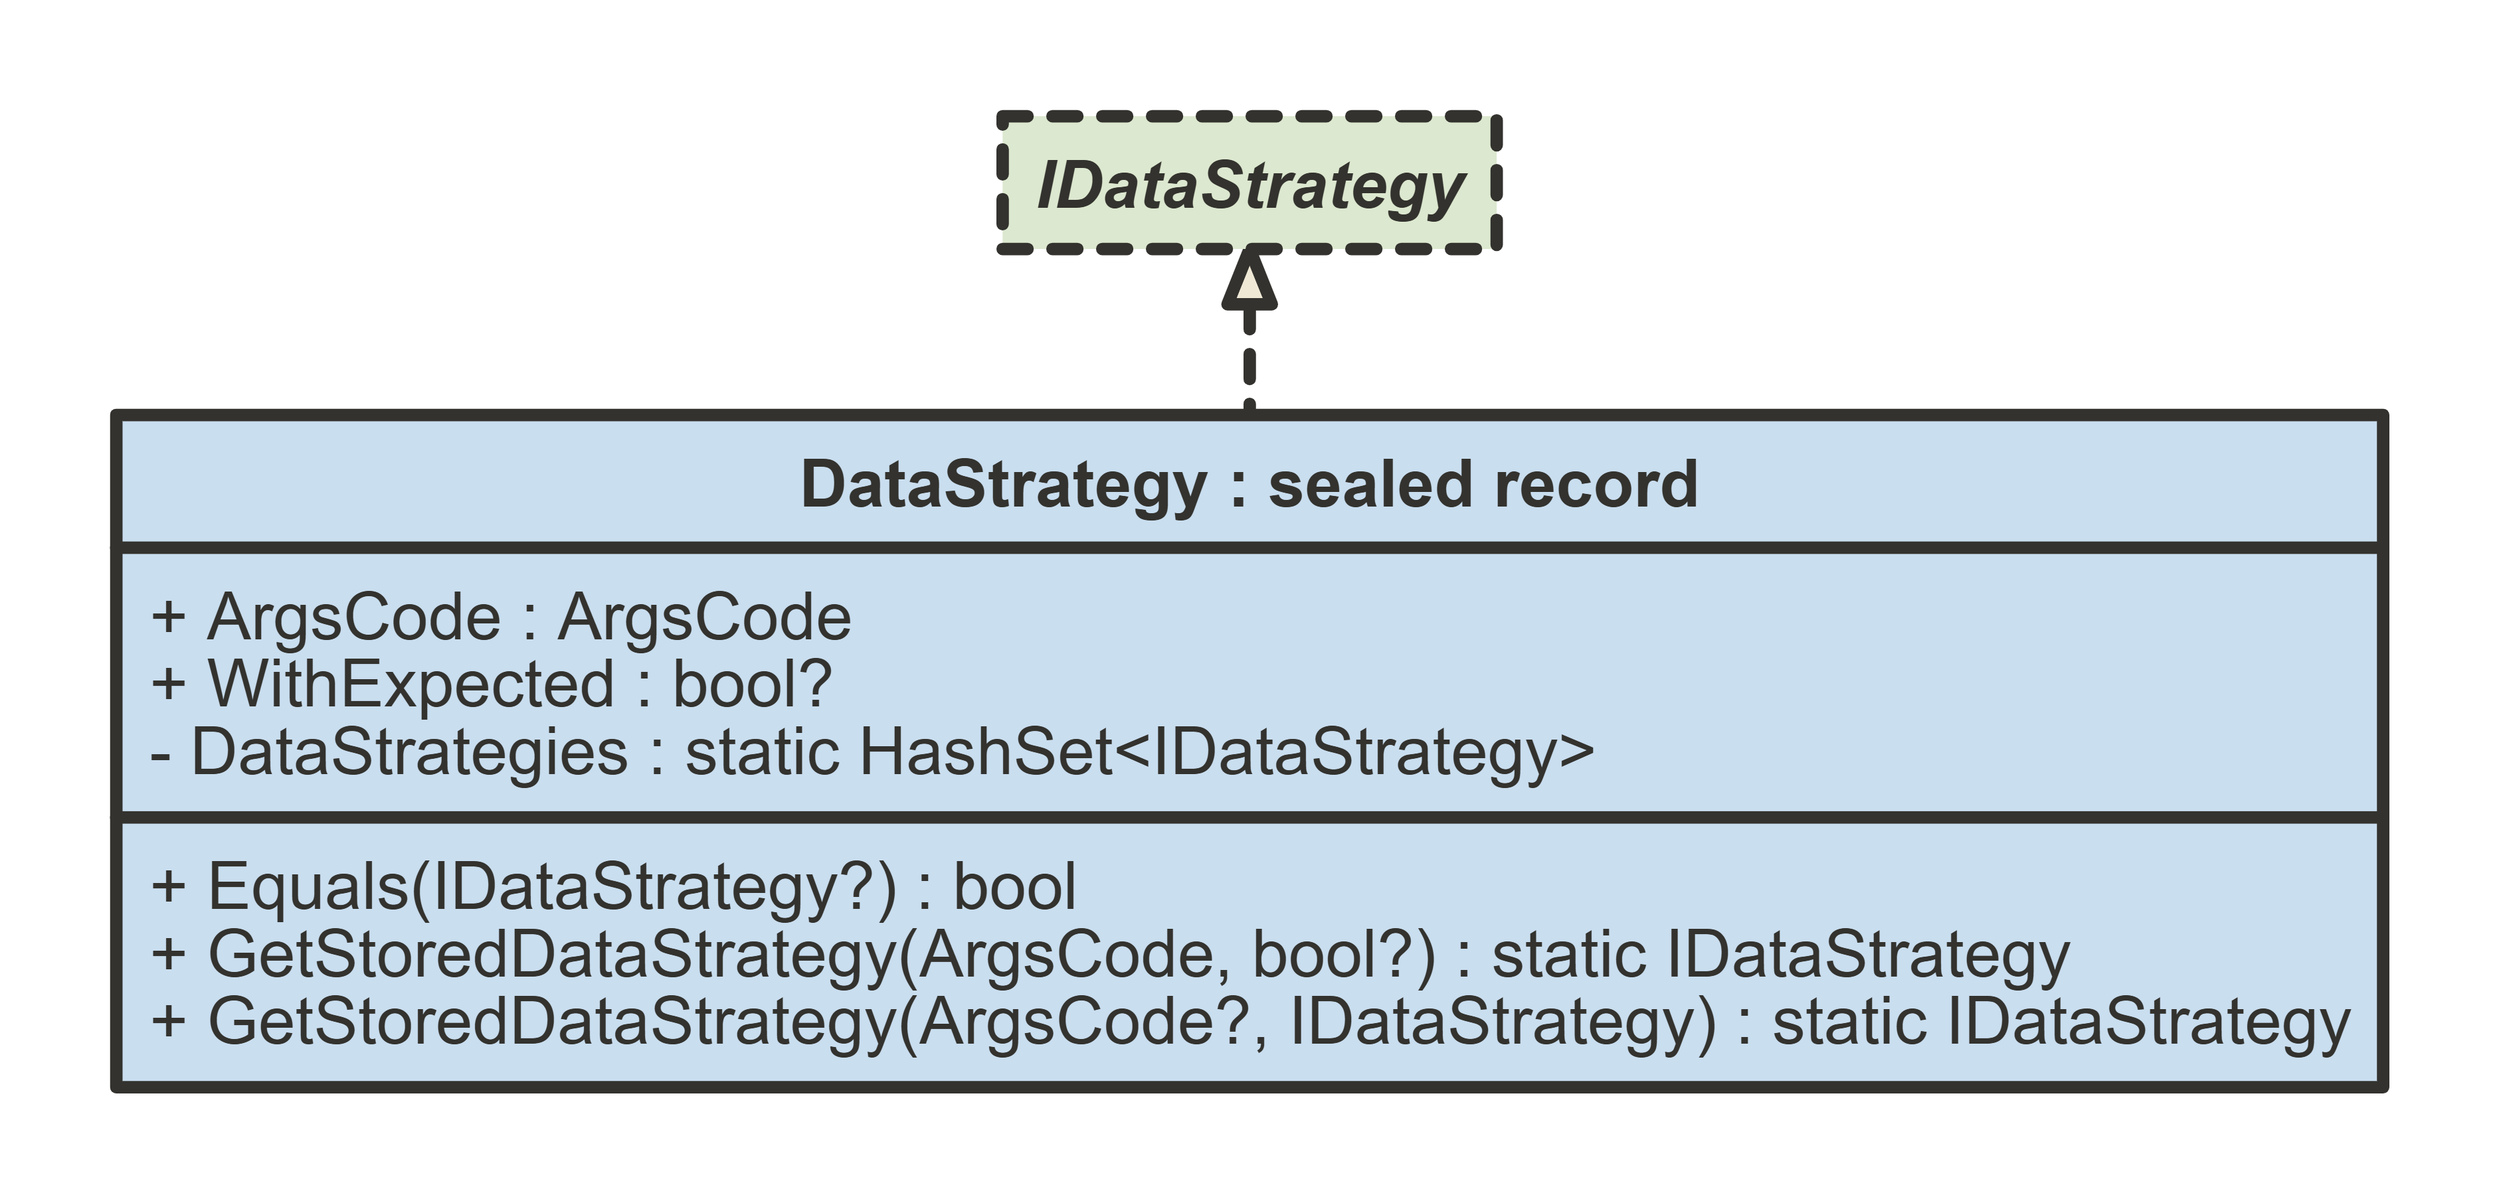
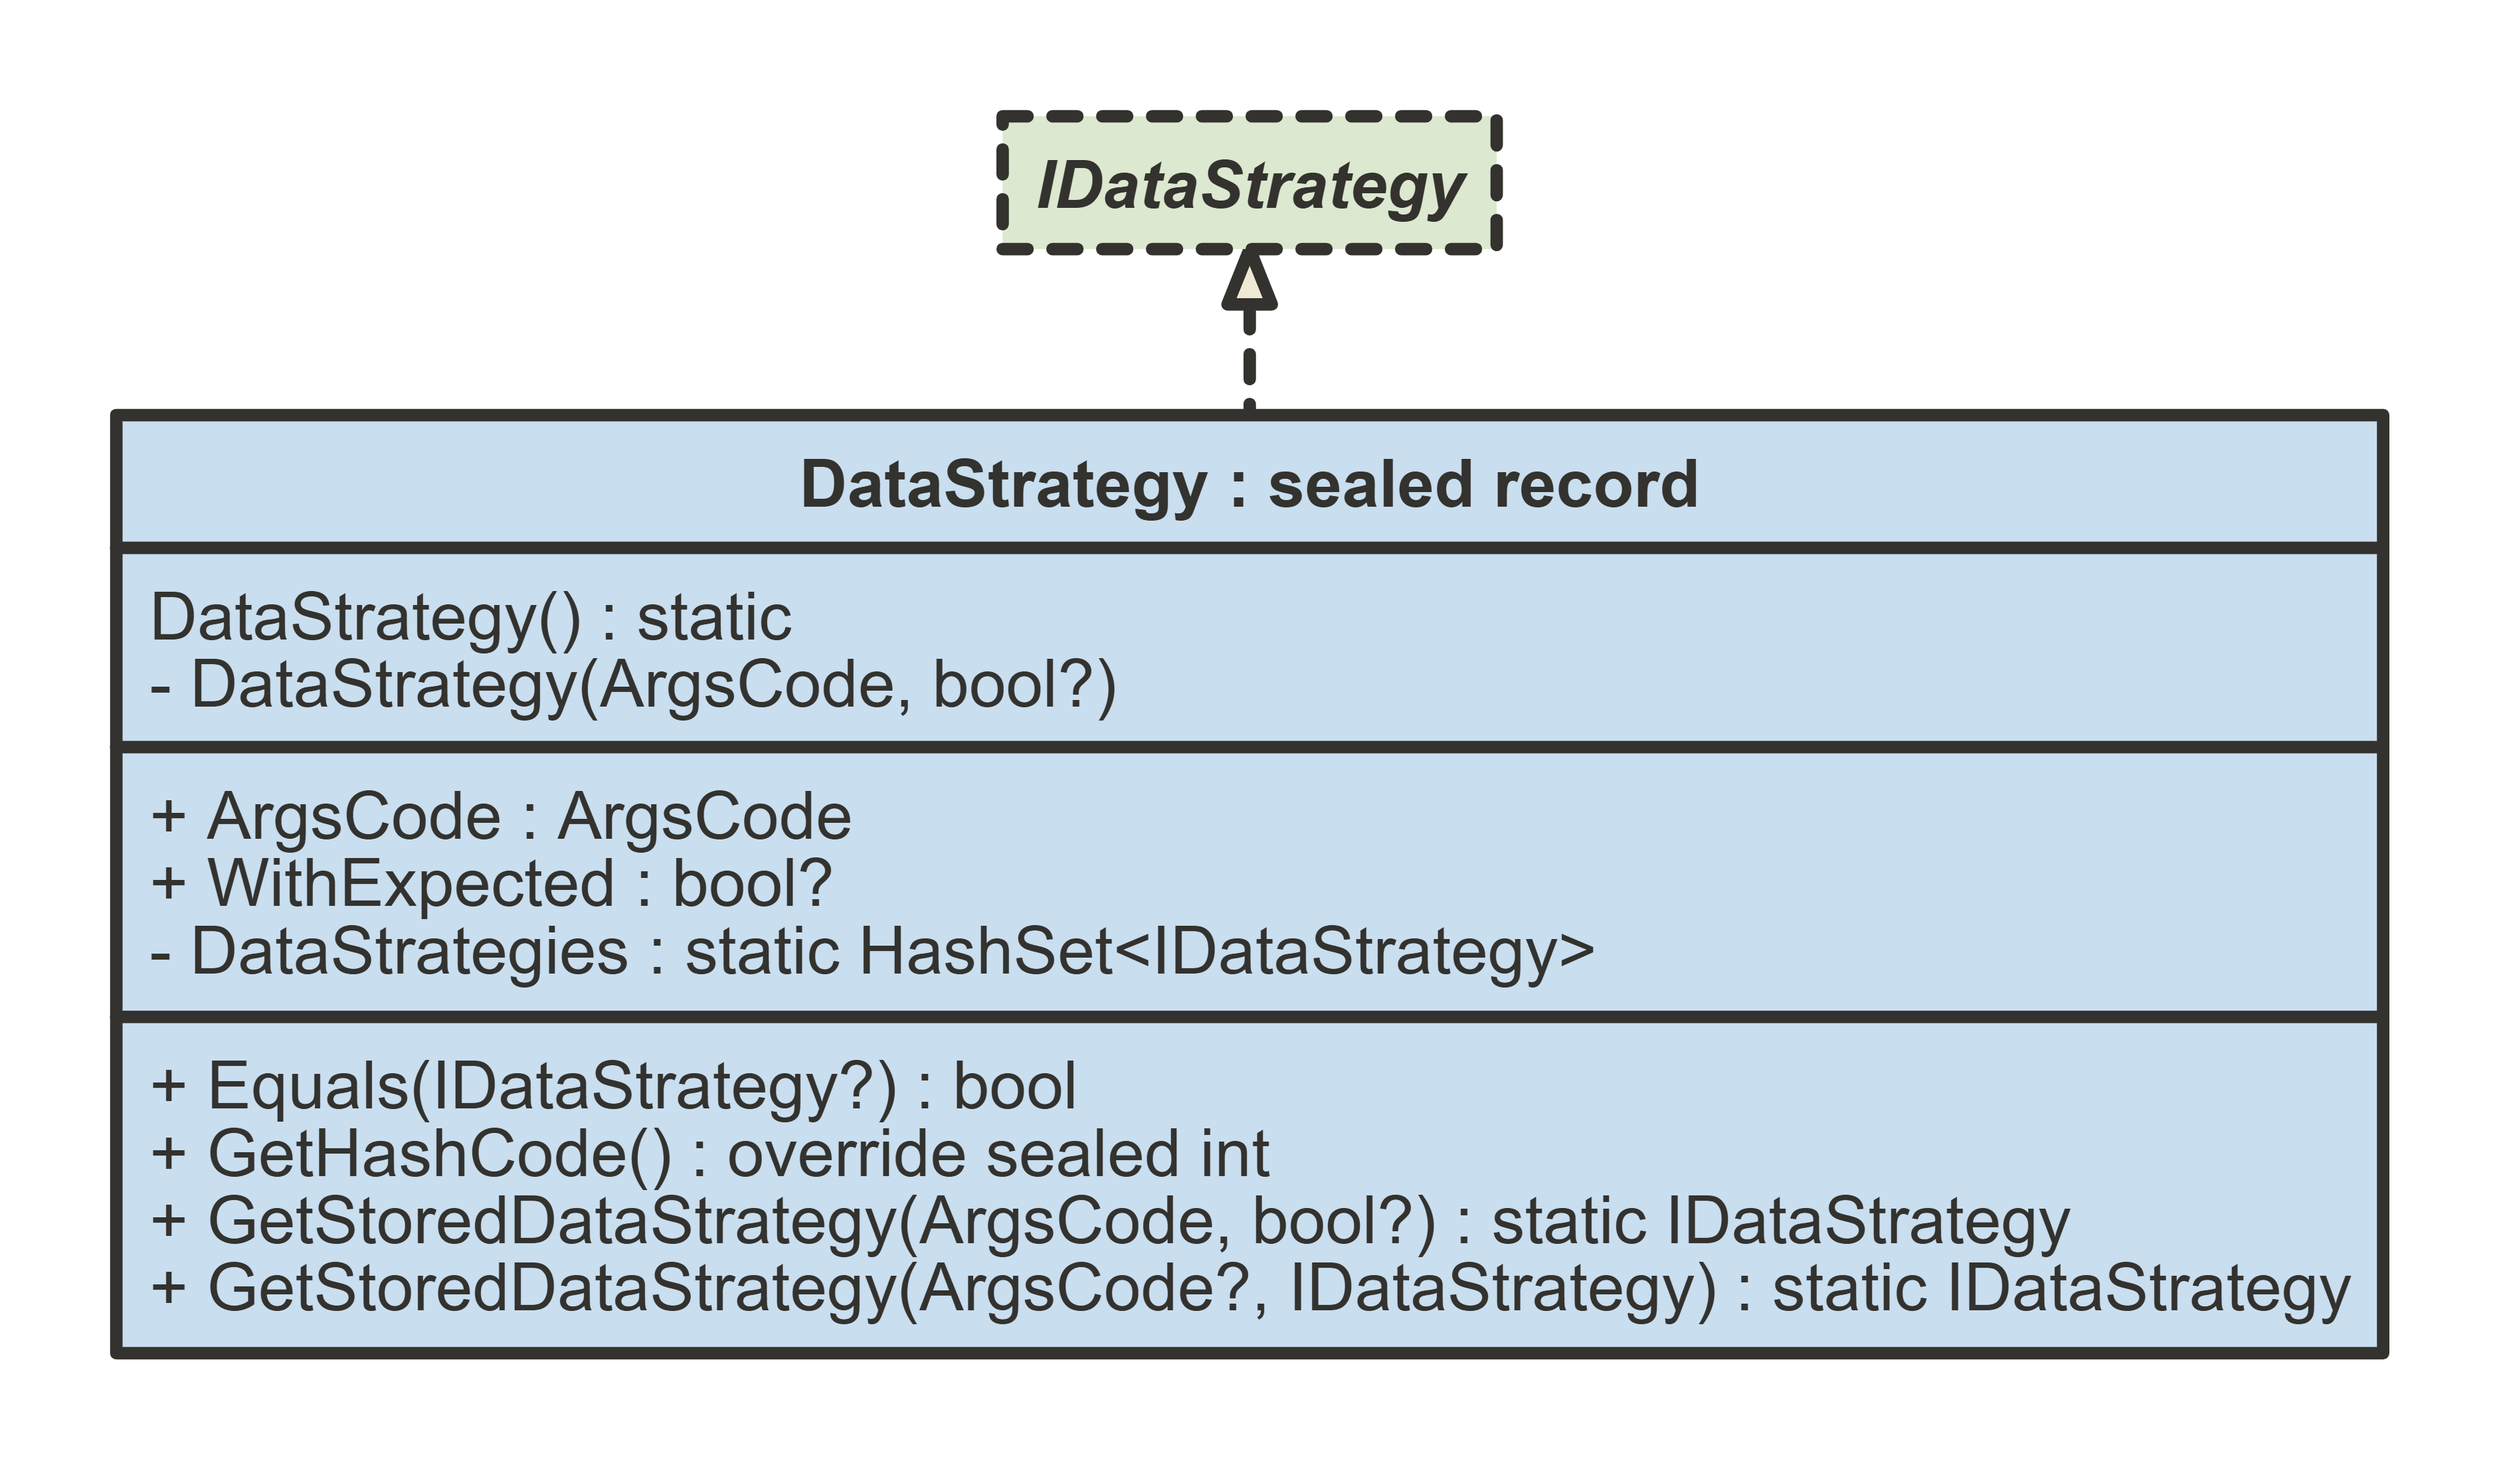
DataStrategy.GetHashCode

Changed region(s): [[0.0311, 0.0618, 0.9641, 0.9272]]

diff --git a/DataStrategyTypes/DataStrategy.cs b/DataStrategyTypes/DataStrategy.cs
@@ -25,8 +25,8 @@ public sealed record DataStrategy
         
     static DataStrategy()
     {
-        DataStrategies = [];
         var argsCodes = Enum.GetValues<ArgsCode>();
+        DataStrategies = [];
 
         foreach (var argsCode in argsCodes)
         {
@@ -46,6 +46,9 @@ public sealed record DataStrategy
         ArgsCode == other.ArgsCode &&
         WithExpected == other.WithExpected;
 
+    public override sealed int GetHashCode()
+    => HashCode.Combine(ArgsCode, WithExpected);
+
     public static IDataStrategy GetStoredDataStrategy(
         ArgsCode? argsCode,
         IDataStrategy dataStrategy)
@@ -53,15 +56,12 @@ public sealed record DataStrategy
         GetStoredDataStrategy(
             argsCode.Value,
             dataStrategy.WithExpected)
-        : DataStrategies.Where(dataStrategy.Equals)
-        .First();
+        : DataStrategies.First(dataStrategy.Equals);
 
     public static IDataStrategy GetStoredDataStrategy(
         ArgsCode argsCode,
         bool? withExpected)
-    => DataStrategies.Where(
-        x =>
-        x.ArgsCode == argsCode &&
-        x.WithExpected == withExpected)
-        .First();
+    => DataStrategies.First(x =>
+        x.ArgsCode == argsCode.Defined(nameof(argsCode)) &&
+        x.WithExpected == withExpected);
 }

diff --git a/DataRowHolders/DataRowHolder.cs b/DataRowHolders/DataRowHolder.cs
@@ -40,15 +40,7 @@ public abstract class DataRowHolder<TRow>(IDataStrategy dataStrategy)
     }
 
     public IDataStrategy GetDataStrategy(ArgsCode? argsCode)
-    {
-        argsCode ??= DataStrategy.ArgsCode;
-
-        return argsCode == DataStrategy.ArgsCode ?
-            DataStrategy
-            : GetStoredDataStrategy(
-                argsCode.Value.Defined(nameof(argsCode)),
-                DataStrategy.WithExpected);
-    }
+    => GetStoredDataStrategy(argsCode, DataStrategy);
     
     public abstract IDataRowHolder<TRow> GetDataRowHolder(IDataStrategy dataStrategy);
     public abstract IEnumerable<ITestDataRow>? GetTestDataRows();

diff --git a/DynamicDataSources/DynamicDataSource.cs b/DynamicDataSources/DynamicDataSource.cs
@@ -227,15 +227,7 @@ IRows<TRow>
 
     #region GetDataStrategy
     public IDataStrategy GetDataStrategy(ArgsCode? argsCode)
-    {
-        argsCode ??= ArgsCode;
-
-        return argsCode == ArgsCode ?
-            this
-            : GetStoredDataStrategy(
-                argsCode.Value.Defined(nameof(argsCode)),
-                WithExpected);
-    }
+    => GetStoredDataStrategy(argsCode, this);
     #endregion
 
     #region GetTestDataRows

diff --git a/README-beta.md b/README-beta.md
@@ -1,5 +1,4 @@
 # CsabaDu.DynamicTestData
-_Type-Safe Dynamic Test Data for .NET Testing Frameworks_
 
 [![Sponsor this project](https://img.shields.io/badge/Sponsor_on_GitHub-💖-ff69b4?style=flat-square)](https://github.com/sponsors/CsabaDu)
 
@@ -8,9 +7,9 @@ _Type-Safe Dynamic Test Data for .NET Testing Frameworks_
 ⚡ **Generate type-safe, thread-safe dynamic test data**  
 🧪 Compatible with MSTest, NUnit, xUnit, and xUnit.v3  
 🧰 Extensible abstractions and ready-to-use integrations  
-📚 Now seeking sponsors to complete v2.0 – documentation, examples, and new features!
+📚 Now seeking sponsors to complete v2.0 – comprehensive testing, documentation, examples, and new features!
 
-`CsabaDu.DynamicTestData` is a lightweight, robust, flexible and extensible, type- and thread-safe C# framework, designed to facilitate dynamic data-driven testing in MSTest, NUnit or xUnit frameworks, by providing simple and intuitive ways to generate test cases at runtime with literal names.
+`CsabaDu.DynamicTestData` is a robust, flexible and extensible, type- and thread-safe C# framework, designed to facilitate dynamic data-driven testing in MSTest, NUnit or xUnit frameworks, by providing simple and intuitive ways to generate test cases at runtime with literal names.
 
 ## Table of Contents
 
@@ -60,9 +59,15 @@ _Type-Safe Dynamic Test Data for .NET Testing Frameworks_
 
 ## Description
 
-`CsabaDu.DynamicTestData` framework is particularly useful in a unit testing context, where it can help streamline the creation of test cases and ensure that tests are both comprehensive and easy to maintain. It is designed to be highly flexible and extensible, allowing developers to create and manage test data for a wide variety of scenarios and literal test case descriptions displaying in Visual Studio Test Explorer.
+`CsabaDu.DynamicTestData` framework is particularly useful in a unit testing context, where it can help streamline the creation of named test cases and ensure that tests are both comprehensive and easy to maintain. It is designed to be highly flexible and extensible, allowing developers to create and manage test data for a wide variety of scenarios and literal test case descriptions displaying in Visual Studio Test Explorer.
 
-This framework consists of immutable `TestData` record types to initialize, store and proceed parameters of dynamic data-driven tests in runtime. It supports tests with multiple arguments, expected not null `ValueType` results and exceptions. It contains a `DynamicDataSource` base class with fully implemented methods to create specific object arrays of the data stored in the `record` instances. You get ready-to-use methods to create enumeration members of the derived dynamic data source classes. The use of generics and records ensures type safety and immutability, while the `ArgsCode` enum provides a clear way to specify how arguments should be handled.
+-**NOTE** This documentation is being developed. 
+
+This framework consists of the following feature groups:
+
+- `ITestData` interfaces which are implemented by immutable `TestData` record types to initialize, store and proceed parameters of dynamic data-driven tests in runtime. It supports tests with multiple arguments, expected not null `ValueType` results and exceptions.
+- 
+- It contains a `DynamicDataSource` base class with fully implemented methods to create specific object arrays of the data stored in the `record` instances. You get ready-to-use methods to create enumeration members of the derived dynamic data source classes. The use of generics and records ensures type safety and immutability, while the `ArgsCode` enum provides a clear way to specify how arguments should be handled.
 
 It is a lightweight but robust framework. It does not have outer dependencies so it is portable, you can use with any test framework in Visual Studio. However consider the limitations of its usage and extensibility mentioned where applicable.
 
